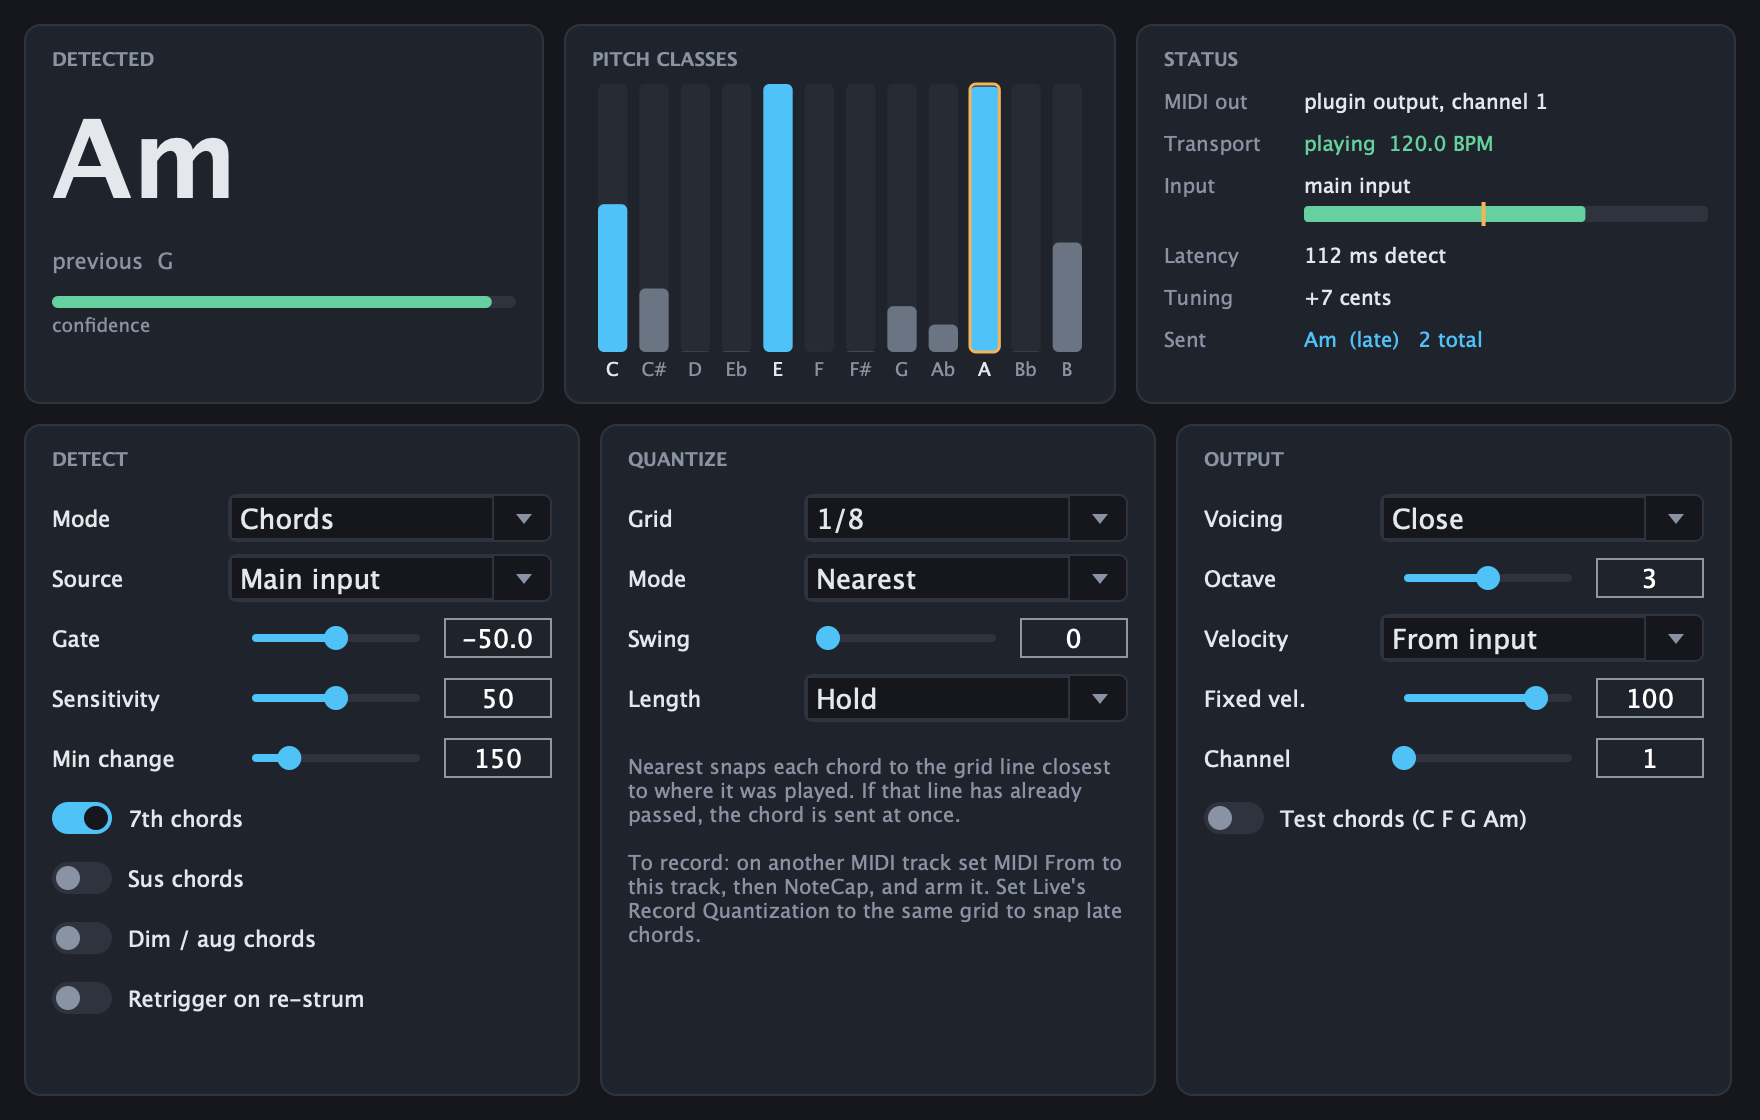
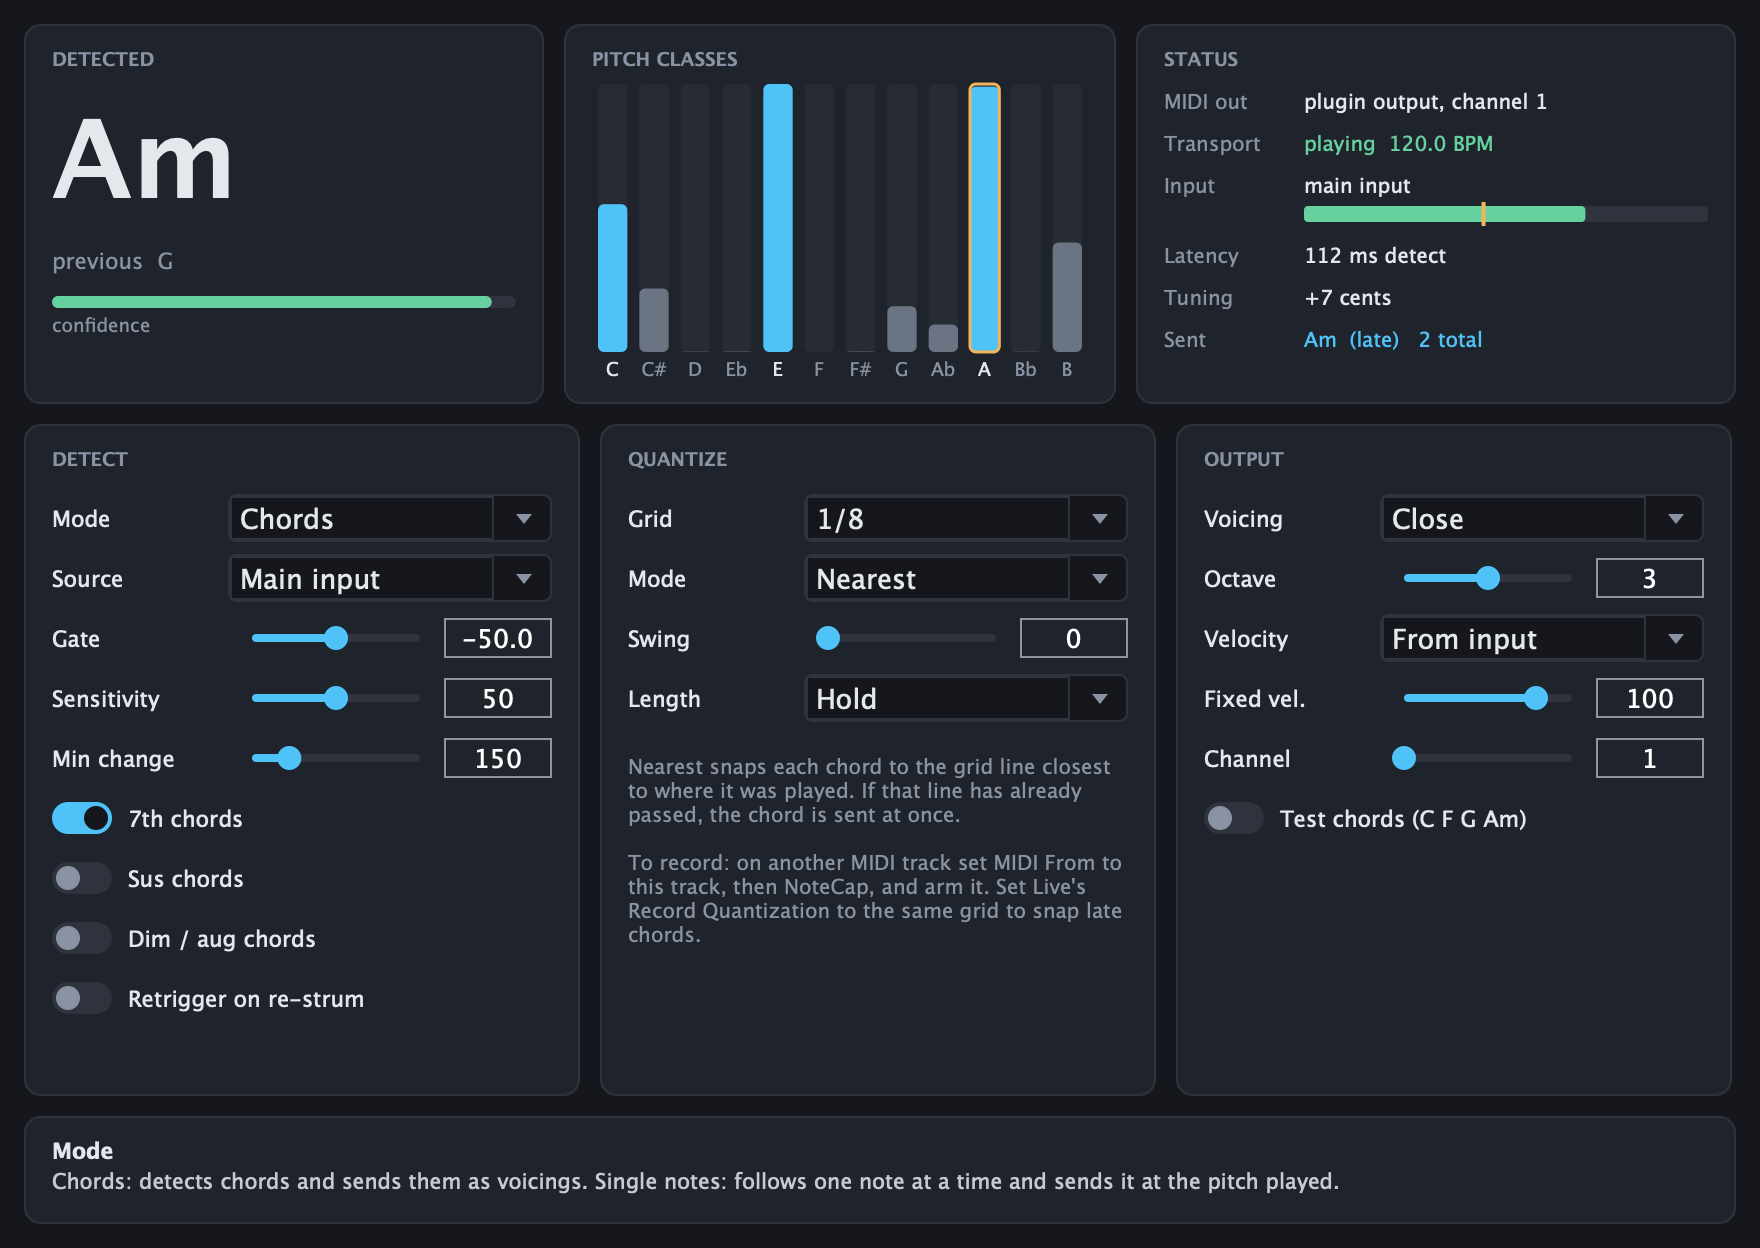
Add an Info View: hover help along the bottom of the editor
Like Live's Info View: pointing at any control, display or group shows a
bold title and a line or two on what it does and what its settings
mean; elsewhere a short hint. The strip spans the editor's full width.

- One description table (PluginEditor.cpp) keyed by parameter ID, plus
  the three displays and three groups. Chords-only settings say so.
  Quantize's Mode is titled "Quantize Mode".
- Hover areas are whole rows (labels are painted, not components),
  rebuilt in resized(); the editor listens to all child mouse events.
- Editor is 64 px taller. snapshot_editor gains hover=<key>; README
  screenshot shows the strip.
- test_plugin.cpp: every parameter has a description of at most 200
  characters, every control/display/group is reachable by the pointer
  (25 areas), and the strip itself isn't a hover area.

pluginval strictness 10 passes.

diff --git a/Source/PluginEditor.cpp b/Source/PluginEditor.cpp
@@ -229,6 +229,138 @@ void StatusDisplay::paint (juce::Graphics& g)
 }
 
 //==============================================================================
+namespace
+{
+    struct Info { const char* key; const char* title; const char* text; };
+
+    // One entry per control and display. Keep each to a line or two: what it does, and what
+    // each of its settings means.
+    const Info infoTable[] = {
+        { "display.detected", "Detected",
+          "The chord (in Single notes mode, the note) NoteCap hears now, the one before it, and how sure it is." },
+        { "display.pitch", "Pitch classes",
+          "How strongly each of the 12 notes sounds. Blue: in the detected chord or note. Orange outline: the bass note." },
+        { "display.status", "Status",
+          "Transport and tempo; input level with the Gate marked; detection delay; tuning offset; the last chord or note sent (late = after its grid line)." },
+        { "group.detect", "Detect", "What NoteCap listens to and which chords it may report." },
+        { "group.quantize", "Quantize", "How detected chords and notes are placed on the song's grid." },
+        { "group.output", "Output", "The MIDI NoteCap sends. Record it on a MIDI track with MIDI From set to this track, then NoteCap." },
+
+        { "mode", "Mode",
+          "Chords: detects chords and sends them as voicings. Single notes: follows one note at a time and sends it at the pitch played." },
+        { "source", "Source",
+          "Main input: the audio on this track. Sidechain: audio from the track picked in the device's Sidechain section." },
+        { "gate", "Gate",
+          "Input below this level counts as silence and ends the chord or note. Raise it if noise triggers detections." },
+        { "sensitivity", "Sensitivity",
+          "How sure NoteCap must be before sending a chord. Higher: reacts more readily, more mistakes. Lower: only clear chords." },
+        { "minChord", "Min change",
+          "How long a new chord must last, without a new strum, before NoteCap follows it (legato changes). Chords mode." },
+        { "sevenths", "7th chords", "On: may report 7, maj7 and m7 chords. Off: triads only. Chords mode." },
+        { "suspended", "Sus chords", "On: may report sus2 and sus4 chords. Chords mode." },
+        { "dimAug", "Dim / aug chords", "On: may report diminished, augmented and m7b5 chords. Chords mode." },
+        { "retrigger", "Retrigger on re-strum",
+          "On: strumming the same chord again sends it again. Off: it keeps sounding. Chords mode; single notes always retrigger." },
+
+        { "grid", "Grid",
+          "The grid chords and notes snap to. Off: sent as soon as detected. 1 Bar to 1/16; T = triplets." },
+        { "qmode", "Quantize Mode",
+          "Nearest: the grid line closest to where you played (if it has passed, sent at once). Next line: the next line after detection; always on the grid, maybe a step late." },
+        { "swing", "Swing", "Delays every other grid line. 0%: straight. 33%: triplet feel. 100%: dotted." },
+        { "length", "Length",
+          "Hold: lasts until the next chord or note, or until you stop playing. 1 to 8 steps: a fixed length in grid steps." },
+
+        { "voicing", "Voicing",
+          "How a chord is played. Close: root position. Open: spread over two octaves. Bass + chord: adds the bass note an octave below. Chords mode." },
+        { "octave", "Octave", "Octave of the chord's root; 3 = middle C (C3). Chords mode; single notes keep the pitch played." },
+        { "velMode", "Velocity", "From input: how hard you play sets the velocity. Fixed: always the Fixed vel. value." },
+        { "velocity", "Fixed vel.", "Velocity (1 to 127) sent when Velocity is Fixed, and by Test chords." },
+        { "channel", "Channel", "MIDI channel (1 to 16) NoteCap sends on." },
+        { "testMode", "Test chords",
+          "Ignores the audio and plays C, F, G, Am on every grid line while the transport runs. For checking routing and timing." },
+    };
+
+    const Info* findInfo (const juce::String& key)
+    {
+        for (const auto& i : infoTable)
+            if (key == i.key) return &i;
+        return nullptr;
+    }
+
+    const char* defaultInfoText = "Point at a control or display to see what it does.";
+}
+
+void InfoView::show (const juce::String& newTitle, const juce::String& newText)
+{
+    if (newTitle == title && newText == text) return;
+    title = newTitle;
+    text = newText;
+    repaint();
+}
+
+void InfoView::paint (juce::Graphics& g)
+{
+    auto r = getLocalBounds().toFloat();
+    drawPanel (g, r);
+    r = r.reduced (14.0f, 8.0f);
+    if (title.isNotEmpty())
+    {
+        g.setColour (colours::text);
+        g.setFont (juce::FontOptions (13.0f, juce::Font::bold));
+        g.drawText (title, r.removeFromTop (18.0f), juce::Justification::centredLeft);
+    }
+    g.setColour (title.isEmpty() ? colours::dim : colours::text.withAlpha (0.85f));
+    g.setFont (juce::FontOptions (12.5f));
+    g.drawFittedText (text, r.toNearestInt(), juce::Justification::topLeft, 2, 1.0f);
+}
+
+juce::String NoteCapAudioProcessorEditor::infoTitle (const juce::String& key)
+{
+    const auto* i = findInfo (key);
+    return i != nullptr ? juce::String (i->title) : juce::String();
+}
+
+juce::String NoteCapAudioProcessorEditor::infoText (const juce::String& key)
+{
+    const auto* i = findInfo (key);
+    return i != nullptr ? juce::String (i->text) : juce::String();
+}
+
+juce::String NoteCapAudioProcessorEditor::infoKeyAt (juce::Point<int> p) const
+{
+    for (const auto& r : infoRegions)
+        if (r.area.contains (p)) return r.key;
+    return {};
+}
+
+void NoteCapAudioProcessorEditor::showInfoFor (const juce::String& key)
+{
+    hoveredKey = key;
+    if (const auto* i = findInfo (key))
+        infoView.show (i->title, i->text);
+    else
+        infoView.show ({}, defaultInfoText);
+}
+
+void NoteCapAudioProcessorEditor::updateInfo (const juce::MouseEvent& e)
+{
+    const auto key = infoKeyAt (e.getEventRelativeTo (this).getPosition());
+    if (key != hoveredKey)
+        showInfoFor (key);
+}
+
+void NoteCapAudioProcessorEditor::mouseEnter (const juce::MouseEvent& e) { updateInfo (e); }
+void NoteCapAudioProcessorEditor::mouseMove (const juce::MouseEvent& e)  { updateInfo (e); }
+void NoteCapAudioProcessorEditor::mouseDrag (const juce::MouseEvent& e)  { updateInfo (e); }
+
+void NoteCapAudioProcessorEditor::mouseExit (const juce::MouseEvent& e)
+{
+    // Moving between child components also sends exits; clear only when leaving the editor.
+    if (! getLocalBounds().contains (e.getEventRelativeTo (this).getPosition()))
+        showInfoFor ({});
+}
+
+//==============================================================================
 NoteCapAudioProcessorEditor::NoteCapAudioProcessorEditor (NoteCapAudioProcessor& p)
     : AudioProcessorEditor (&p), proc (p), chordDisplay (p), chromaDisplay (p), statusDisplay (p)
 {
@@ -236,7 +368,10 @@ NoteCapAudioProcessorEditor::NoteCapAudioProcessorEditor (NoteCapAudioProcessor&
     addAndMakeVisible (chordDisplay);
     addAndMakeVisible (chromaDisplay);
     addAndMakeVisible (statusDisplay);
+    addAndMakeVisible (infoView);
+    infoView.show ({}, defaultInfoText);
 
+    infoRegions.reserve (40);
     auto& detect = groups[0];
     detect.title = "DETECT";
     addCombo (detect, "mode", "Mode");
@@ -265,7 +400,8 @@ NoteCapAudioProcessorEditor::NoteCapAudioProcessorEditor (NoteCapAudioProcessor&
     addSlider (output, "channel", "Channel");
     addToggle (output, "testMode", "Test chords (C F G Am)");
 
-    setSize (880, 560);
+    setSize (880, 624);
+    addMouseListener (this, true);   // hover over any child updates the Info View
     startTimerHz (30);
 }
 
@@ -277,6 +413,7 @@ NoteCapAudioProcessorEditor::~NoteCapAudioProcessorEditor()
 void NoteCapAudioProcessorEditor::addSlider (Group& grp, const juce::String& id, const juce::String& label)
 {
     auto c = std::make_unique<Control>();
+    c->paramId = id;
     c->label = label;
     auto s = std::make_unique<juce::Slider> (juce::Slider::LinearHorizontal, juce::Slider::TextBoxRight);
     s->setTextBoxStyle (juce::Slider::TextBoxRight, false, 54, 20);
@@ -289,6 +426,7 @@ void NoteCapAudioProcessorEditor::addSlider (Group& grp, const juce::String& id,
 void NoteCapAudioProcessorEditor::addCombo (Group& grp, const juce::String& id, const juce::String& label)
 {
     auto c = std::make_unique<Control>();
+    c->paramId = id;
     c->label = label;
     auto box = std::make_unique<juce::ComboBox>();
     if (auto* param = dynamic_cast<juce::AudioParameterChoice*> (proc.apvts.getParameter (id)))
@@ -302,6 +440,7 @@ void NoteCapAudioProcessorEditor::addCombo (Group& grp, const juce::String& id, 
 void NoteCapAudioProcessorEditor::addToggle (Group& grp, const juce::String& id, const juce::String& label)
 {
     auto c = std::make_unique<Control>();
+    c->paramId = id;
     auto b = std::make_unique<juce::ToggleButton> (label);
     c->buttonAttachment = std::make_unique<juce::AudioProcessorValueTreeState::ButtonAttachment> (proc.apvts, id, *b);
     addAndMakeVisible (*b);
@@ -343,7 +482,10 @@ void NoteCapAudioProcessorEditor::paint (juce::Graphics& g)
 
 void NoteCapAudioProcessorEditor::resized()
 {
+    infoRegions.clear();
     auto area = getLocalBounds().reduced (12);
+    infoView.setBounds (area.removeFromBottom (54));
+    area.removeFromBottom (10);
     auto top = area.removeFromTop (190);
     chordDisplay.setBounds (top.removeFromLeft (260));
     top.removeFromLeft (10);
@@ -363,10 +505,20 @@ void NoteCapAudioProcessorEditor::resized()
         inner.removeFromTop (22);
         for (auto& c : grp.controls)
         {
-            auto row = inner.removeFromTop (30).reduced (0, 3);
+            auto row = inner.removeFromTop (30);
+            infoRegions.push_back ({ row, c->paramId });   // the whole row, label included
+            row = row.reduced (0, 3);
             c->component->setBounds (c->label.isNotEmpty() ? row.withTrimmedLeft (88) : row);
         }
     }
+
+    // Less specific areas after the rows, so a row wins over its group.
+    infoRegions.push_back ({ chordDisplay.getBounds(), "display.detected" });
+    infoRegions.push_back ({ chromaDisplay.getBounds(), "display.pitch" });
+    infoRegions.push_back ({ statusDisplay.getBounds(), "display.status" });
+    const char* groupKeys[] = { "group.detect", "group.quantize", "group.output" };
+    for (size_t i = 0; i < groups.size(); ++i)
+        infoRegions.push_back ({ groups[i].bounds, groupKeys[i] });
 }
 
 void NoteCapAudioProcessorEditor::timerCallback()

diff --git a/Tests/test_plugin.cpp b/Tests/test_plugin.cpp
@@ -3,6 +3,7 @@
 // host buffer (what Live records through "MIDI From: track / NoteCap").
 // Run via run_integration.sh.
 #include "PluginProcessor.h"
+#include "PluginEditor.h"
 #include "Synth.h"
 #include "TestUtil.h"
 #include <algorithm>
@@ -588,6 +589,53 @@ static void testSingleNotes()
     }
 }
 
+
+static void testInfoView()
+{
+    std::cout << "== info view ==\n";
+    NoteCapAudioProcessor proc;
+    std::unique_ptr<juce::AudioProcessorEditor> ed (proc.createEditor());
+    auto* editor = dynamic_cast<NoteCapAudioProcessorEditor*> (ed.get());
+    check (editor != nullptr, "the editor is NoteCap's");
+    if (editor == nullptr) return;
+
+    // Every parameter has a short description.
+    std::string missing, long_;
+    for (auto* p : proc.getParameters())
+        if (auto* wid = dynamic_cast<juce::AudioProcessorParameterWithID*> (p))
+        {
+            const auto id = wid->paramID;
+            const auto text = NoteCapAudioProcessorEditor::infoText (id);
+            if (NoteCapAudioProcessorEditor::infoTitle (id).isEmpty() || text.isEmpty()) missing += id.toStdString() + " ";
+            if (text.length() > 200) long_ += id.toStdString() + " ";
+        }
+    check (missing.empty(), "every parameter has an Info View description" + (missing.empty() ? std::string() : " (missing: " + missing + ")"));
+    check (long_.empty(), "descriptions stay brief, at most 200 characters" + (long_.empty() ? std::string() : " (too long: " + long_ + ")"));
+
+    // Every control, display and group can be pointed at.
+    std::set<std::string> found;
+    const auto b = editor->getLocalBounds();
+    for (int y = 0; y < b.getHeight(); y += 4)
+        for (int x = 0; x < b.getWidth(); x += 4)
+            if (const auto key = editor->infoKeyAt ({ x, y }); key.isNotEmpty()) found.insert (key.toStdString());
+    std::string unreachable;
+    for (auto* p : proc.getParameters())
+        if (auto* wid = dynamic_cast<juce::AudioProcessorParameterWithID*> (p))
+            if (! found.count (wid->paramID.toStdString())) unreachable += wid->paramID.toStdString() + " ";
+    for (const char* k : { "display.detected", "display.pitch", "display.status", "group.detect", "group.quantize", "group.output" })
+        if (! found.count (k)) unreachable += std::string (k) + " ";
+    check (unreachable.empty(), "every control and display has a hover area (" + std::to_string (found.size()) + " areas)"
+                                    + (unreachable.empty() ? std::string() : "; none for: " + unreachable));
+
+    // The strip itself sits below everything and shows the item under the mouse.
+    const auto bottom = juce::Point<int> (b.getCentreX(), b.getBottom() - 30);
+    check (editor->infoKeyAt (bottom).isEmpty(), "the Info View strip isn't itself a hover area");
+    editor->showInfoFor ("grid");
+    check (editor->shownInfoTitle() == "Grid", "pointing at Grid shows its description");
+    editor->showInfoFor ({});
+    check (editor->shownInfoTitle().isEmpty(), "pointing at nothing shows the hint");
+}
+
 int main()
 {
     juce::ScopedJuceInitialiser_GUI juceInit;
@@ -602,5 +650,6 @@ int main()
     testRecoversFromNaN();
     testConcurrentInstances();
     testSingleNotes();
+    testInfoView();
     return testutil::finish ("test_plugin");
 }

diff --git a/Source/PluginEditor.h b/Source/PluginEditor.h
@@ -48,6 +48,17 @@ namespace notecap::ui
         NoteCapAudioProcessor& proc;
     };
 
+    // Ableton-style Info View: a strip along the bottom describing whatever the mouse is over.
+    class InfoView : public juce::Component
+    {
+    public:
+        void show (const juce::String& title, const juce::String& text);
+        void paint (juce::Graphics&) override;
+        const juce::String& getTitle() const noexcept { return title; }
+    private:
+        juce::String title, text;
+    };
+
     // Port / transport / latency / level status panel.
     class StatusDisplay : public juce::Component
     {
@@ -69,11 +80,26 @@ public:
     void paint (juce::Graphics&) override;
     void resized() override;
 
+    void mouseEnter (const juce::MouseEvent&) override;
+    void mouseMove (const juce::MouseEvent&) override;
+    void mouseDrag (const juce::MouseEvent&) override;
+    void mouseExit (const juce::MouseEvent&) override;
+
+    // Info View: the key ("grid", "display.status", ...) of the area at `p` (editor
+    // coordinates), its title, and showing one directly (used by the snapshot tool).
+    juce::String infoKeyAt (juce::Point<int> p) const;
+    static juce::String infoTitle (const juce::String& key);
+    static juce::String infoText (const juce::String& key);
+    void showInfoFor (const juce::String& key);
+    const juce::String& shownInfoTitle() const noexcept { return infoView.getTitle(); }
+
 private:
     void timerCallback() override;
+    void updateInfo (const juce::MouseEvent&);
 
     struct Control
     {
+        juce::String paramId;
         juce::String label;
         std::unique_ptr<juce::Component> component;
         std::unique_ptr<juce::AudioProcessorValueTreeState::SliderAttachment> sliderAttachment;
@@ -97,7 +123,12 @@ private:
     notecap::ui::ChordDisplay chordDisplay;
     notecap::ui::ChromaDisplay chromaDisplay;
     notecap::ui::StatusDisplay statusDisplay;
+    notecap::ui::InfoView infoView;
     std::array<Group, 3> groups;
+
+    struct InfoRegion { juce::Rectangle<int> area; juce::String key; };
+    std::vector<InfoRegion> infoRegions;   // most specific first; rebuilt in resized()
+    juce::String hoveredKey;
 
     JUCE_DECLARE_NON_COPYABLE_WITH_LEAK_DETECTOR (NoteCapAudioProcessorEditor)
 };

diff --git a/Tests/snapshot_editor.cpp b/Tests/snapshot_editor.cpp
@@ -3,6 +3,7 @@
 //   Tests/run_integration.sh builds the library; then:
 //   Tests/build/snapshot_editor out.png          (Chords mode, after G then Am)
 //   Tests/build/snapshot_editor out.png notes    (Single notes mode, after a short picked line)
+//   ... hover=<key>                              (the Info View as if pointing at <key>, e.g. hover=grid)
 #include "PluginProcessor.h"
 #include "PluginEditor.h"
 #include "Synth.h"
@@ -22,7 +23,14 @@ int main (int argc, char** argv)
     const double fs = 48000.0;
     NoteCapAudioProcessor proc;
     proc.setRateAndBufferSizeDetails (fs, 256);
-    const bool notes = argc > 2 && juce::String (argv[2]) == "notes";
+    bool notes = false;
+    juce::String hover;
+    for (int i = 2; i < argc; ++i)
+    {
+        const juce::String a (argv[i]);
+        if (a == "notes") notes = true;
+        else if (a.startsWith ("hover=")) hover = a.fromFirstOccurrenceOf ("=", false, false);
+    }
     if (notes)
         if (auto* mode = proc.apvts.getParameter ("mode")) mode->setValueNotifyingHost (1.0f);
     PlayHead ph;
@@ -47,6 +55,8 @@ int main (int argc, char** argv)
     }
 
     std::unique_ptr<juce::AudioProcessorEditor> editor (proc.createEditor());
+    if (auto* ed = dynamic_cast<NoteCapAudioProcessorEditor*> (editor.get()); ed != nullptr && hover.isNotEmpty())
+        ed->showInfoFor (hover);
     const auto image = editor->createComponentSnapshot (editor->getLocalBounds(), true, 2.0f);
     juce::File out (argc > 1 ? juce::String (argv[1]) : juce::String ("editor.png"));
     out.deleteFile();

diff --git a/README.md b/README.md
@@ -5,7 +5,7 @@ recognises the chord being played, and sends it as **quantized MIDI** that a
 MIDI track can record. Built with JUCE. Also builds as a Standalone app for
 testing.
 
-![NoteCap plugin window: detected chord, pitch-class bars, status panel and the Detect / Quantize / Output controls](screenshot.png)
+![NoteCap plugin window: detected chord, pitch-class bars, status panel, the Detect / Quantize / Output controls, and the Info View along the bottom](screenshot.png)
 
 See [PLAN.md](PLAN.md) for the full project plan and design decisions.
 
@@ -42,6 +42,9 @@ listens to. Pick the audio track in NoteCap's **Sidechain** section of the
 device header.
 
 ## Controls
+
+Point at any control or display and the **Info View** strip along the bottom says what it does
+and what its settings mean, like Live's own Info View.
 
 | Group | Control | What it does |
 |---|---|---|
